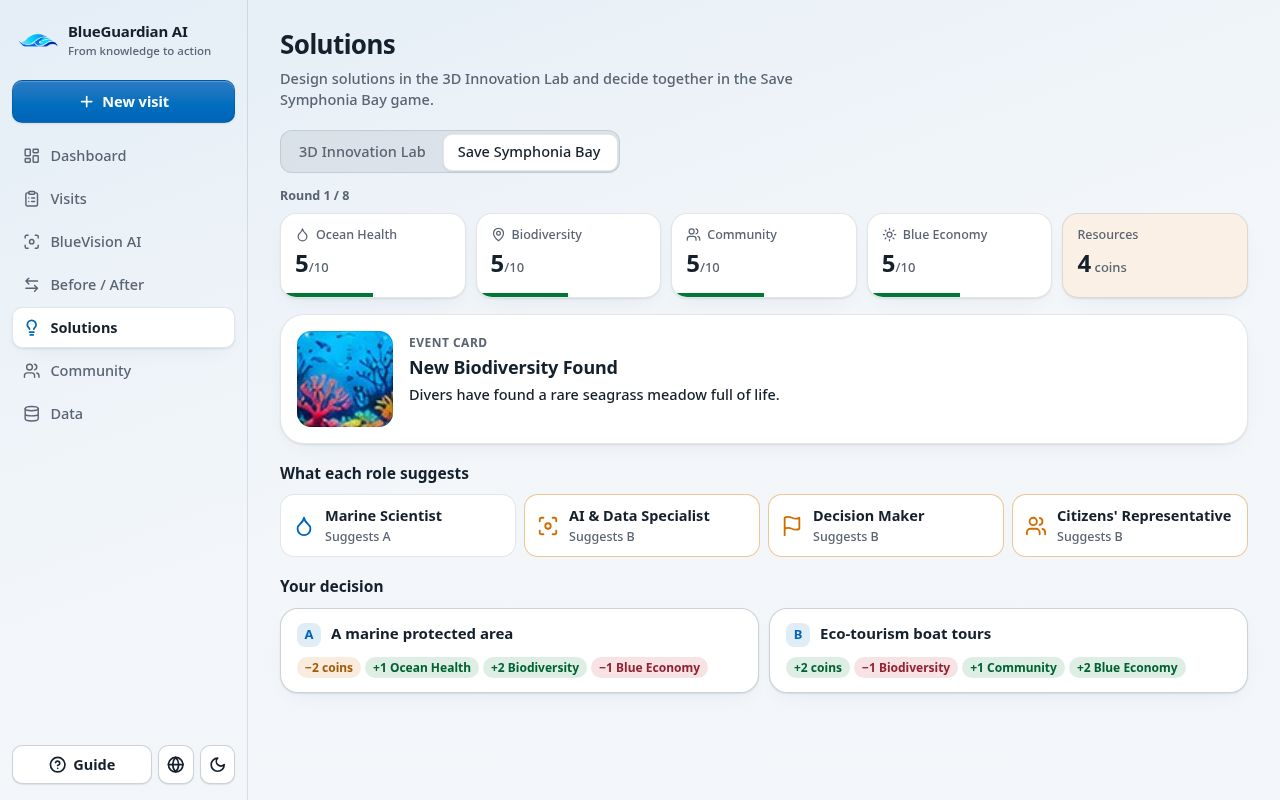
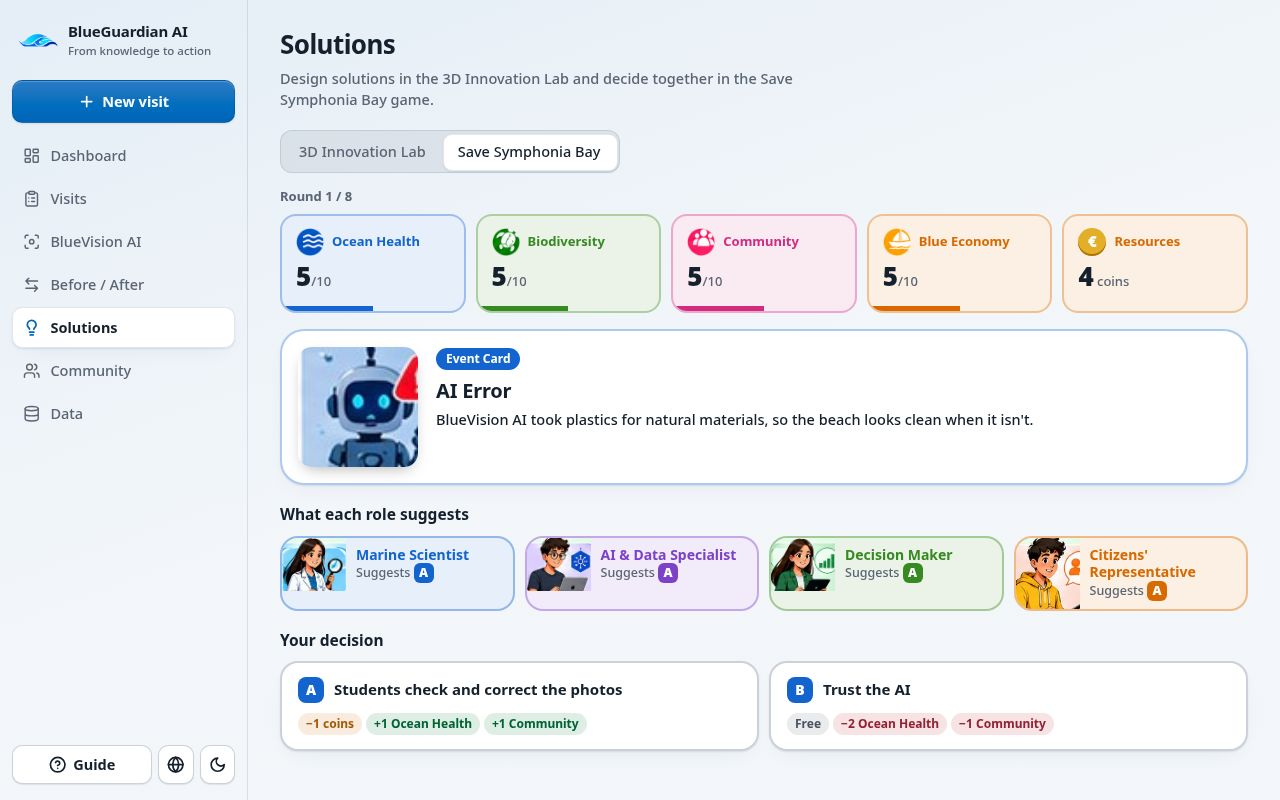
Restyle Solutions tab after the presentation slides
Colour-coded prototypes and design cycle with the slide icons, lab hero and kid
illustration; game start with banner, board, role portraits, indicator icons and
the 'who decides' / 'we don't always agree' callouts; portraits and a
disagreement note in each round.

Changed region(s): [[0.2188, 0.2188, 1.0, 0.9375]]

diff --git a/src/ideas.js b/src/ideas.js
@@ -7,17 +7,25 @@ const icon = name => `<svg class="i" aria-hidden="true"><use href="#i-${name}"/>
 
 // ---------- 3D Innovation Lab ----------
 
-const CYCLE = [['Σχεδιάζουμε', 'Design'], ['Κατασκευάζουμε', 'Build'], ['Δοκιμάζουμε', 'Test'], ['Μετράμε', 'Measure'], ['Βελτιώνουμε', 'Improve']];
+// Colours follow the presentation slides: each step, prototype, role and indicator keeps its slide colour.
+const CYCLE = [
+  { id: 'design', name: ['Σχεδιάζουμε', 'Design'], c: 'blue' },
+  { id: 'build', name: ['Κατασκευάζουμε', 'Build'], c: 'green' },
+  { id: 'test', name: ['Δοκιμάζουμε', 'Test'], c: 'orange' },
+  { id: 'measure', name: ['Μετράμε', 'Measure'], c: 'red' },
+  { id: 'improve', name: ['Βελτιώνουμε', 'Improve'], c: 'purple' },
+];
+const both = pair => lang === 'el' ? `<b>${pair[1]}</b><span>${pair[0]}</span>` : `<b>${pair[1]}</b>`; // slide style: English name, Greek under it
 const PROTOTYPES = [
-  { id: 'river-gate', name: ['Έξυπνο Φράγμα Ποταμού', 'Smart River Gate'],
+  { id: 'river-gate', c: 'blue', name: ['Έξυπνο Φράγμα Ποταμού', 'Smart River Gate'],
     does: ['Συγκρατεί τα απορρίμματα πριν φτάσουν στη θάλασσα.', 'Holds back litter before it reaches the sea.'],
     make: ['Στο Tinkercad: ένα πλαίσιο από κύβους και μια σχάρα με κάθετες ράβδους. Το νερό περνά, τα πλαστικά μένουν πίσω.', 'In Tinkercad: a frame of boxes and a grille of upright bars. Water flows through, plastics stay behind.'],
     test: ['Δοκιμή: σε ένα κανάλι με νερό, μετρήστε πόσα από 20 κομματάκια συγκρατεί.', 'Test: in a channel of water, count how many of 20 small pieces it holds back.'] },
-  { id: 'waste-collector', name: ['Πλωτός Συλλέκτης Απορριμμάτων', 'Floating Waste Collector'],
+  { id: 'waste-collector', c: 'green', name: ['Πλωτός Συλλέκτης Απορριμμάτων', 'Floating Waste Collector'],
     does: ['Συλλέγει απορρίμματα από την επιφάνεια της θάλασσας.', 'Collects litter from the surface of the sea.'],
     make: ['Στο Tinkercad: δύο κύλινδροι για πλωτήρες και ανάμεσά τους ένα καλάθι με τρύπες.', 'In Tinkercad: two cylinders as floats, with a basket full of holes between them.'],
     test: ['Δοκιμή: σε μια λεκάνη με νερό, μετρήστε πόσα κομματάκια μαζεύει σε ένα λεπτό.', 'Test: in a basin of water, count how many pieces it collects in one minute.'] },
-  { id: 'coastal-station', name: ['Έξυπνος Παράκτιος Σταθμός', 'Smart Coastal Station'],
+  { id: 'coastal-station', c: 'orange', name: ['Έξυπνος Παράκτιος Σταθμός', 'Smart Coastal Station'],
     does: ['Κάνει περιβαλλοντικές μετρήσεις στην ακτή.', 'Takes environmental measurements on the shore.'],
     make: ['Στο Tinkercad: ένα αδιάβροχο κουτί για micro:bit ή Arduino, με στήριγμα για ηλιακό πάνελ και αισθητήρες.', 'In Tinkercad: a waterproof box for a micro:bit or Arduino, with a mount for a solar panel and sensors.'],
     test: ['Δοκιμή: συγκρίνετε τις μετρήσεις του με ένα θερμόμετρο και καταγράψτε τες στην εφαρμογή.', 'Test: compare its readings with a thermometer and record them in the app.'] },
@@ -31,26 +39,37 @@ const saveLab = () => { try { localStorage.lab = JSON.stringify(lab); } catch {}
 export function renderLab() {
   const box = $('#lab-view');
   box.innerHTML = `
-    <div class="card lab-intro">
-      <p>${L(['Δεν θέλουμε το BlueGuardian AI απλώς να δείχνει ότι υπάρχει πρόβλημα. Θέλουμε τα δεδομένα να μας οδηγούν σε λύσεις. Στο 3D Innovation Lab σχεδιάζουμε πρωτότυπες κατασκευές με το Tinkercad και τις φτιάχνουμε σε 3D εκτυπωτή.',
-        'We don\'t want BlueGuardian AI to only show that there is a problem. We want the data to lead us to solutions. In the 3D Innovation Lab we design prototypes in Tinkercad and make them on a 3D printer.'])}</p>
-      <a class="btn primary" href="https://www.tinkercad.com/" target="_blank" rel="noopener">${L(['Άνοιγμα Tinkercad', 'Open Tinkercad'])}${icon('arrow')}</a>
+    <div class="card lab-hero">
+      <img src="img/lab-team.jpg" alt="">
+      <div>
+        <h2>3D Innovation Lab${L(['<small>Εργαστήριο Τρισδιάστατης Καινοτομίας</small>', ''])}</h2>
+        <p>${L(['Δεν θέλουμε το BlueGuardian AI απλώς να μας δείχνει ότι υπάρχει ένα πρόβλημα. Θέλουμε τα δεδομένα να μας οδηγούν και σε πιθανές λύσεις. Γι’ αυτό στο <b>3D Innovation Lab</b> σχεδιάζουμε <b>prototypes</b>, δηλαδή πρωτότυπες κατασκευές.',
+          'We don\'t want BlueGuardian AI to only show us that there is a problem. We want the data to lead us to possible solutions too. That is why in the <b>3D Innovation Lab</b> we design <b>prototypes</b>.'])}</p>
+        <p class="hint">${L(['Χρησιμοποιούμε εργαλεία όπως το Tinkercad και 3D εκτυπωτές για να σχεδιάσουμε και να κατασκευάσουμε τις ιδέες μας.', 'We use tools like Tinkercad and 3D printers to design and build our ideas.'])}</p>
+        <a class="btn primary" href="https://www.tinkercad.com/" target="_blank" rel="noopener">${L(['Άνοιγμα Tinkercad', 'Open Tinkercad'])}${icon('arrow')}</a>
+      </div>
     </div>
-    <ol class="cycle">${CYCLE.map(c => `<li>${L(c)}</li>`).join('')}</ol>
-    <p class="hint cycle-note">${L(['Και αν η πρώτη ιδέα δεν λειτουργήσει; Τη βελτιώνουμε και ξαναδοκιμάζουμε.', 'And if the first idea doesn\'t work? We improve it and test again.'])}</p>
     <div class="protos">${PROTOTYPES.map(p => {
       const s = lab[p.id] ?? { done: 0, version: 1 };
-      return `<article class="card proto">
+      return `<article class="card proto" style="--c:var(--c-${p.c})">
+        <header>${both(p.name)}${s.version > 1 ? `<small>v${s.version}</small>` : ''}</header>
         <img src="img/lab-${p.id}.jpg" alt="" loading="lazy">
-        <h2>${L(p.name)}${s.version > 1 ? `<small>v${s.version}</small>` : ''}</h2>
-        <p>${L(p.does)}</p>
+        <p class="does">${L(p.does)}</p>
         <p class="hint">${L(p.make)}</p>
         <p class="hint">${L(p.test)}</p>
         <div class="progress" role="group" aria-label="${L(['Πρόοδος', 'Progress'])}">${CYCLE.map((c, i) =>
-          `<button class="${i < s.done ? 'done' : i === s.done ? 'next' : ''}" data-proto="${p.id}" data-step="${i}" aria-pressed="${i < s.done}">${L(c)}</button>`).join('')}</div>
+          `<button class="${i < s.done ? 'done' : i === s.done ? 'next' : ''}" style="--c:var(--c-${c.c})" data-proto="${p.id}" data-step="${i}" aria-pressed="${i < s.done}" title="${L(c.name)}" aria-label="${L(c.name)}"><img src="img/cy-${c.id}.png" alt=""></button>`).join('')}</div>
         ${s.done === CYCLE.length ? `<button class="btn" data-again="${p.id}">${L(['Νέα έκδοση, νέος κύκλος', 'New version, new cycle'])}</button>` : ''}
       </article>`;
-    }).join('')}</div>`;
+    }).join('')}</div>
+    <div class="card cycle-card">
+      <h3 class="pill">${L(['Ακολουθούμε έναν κύκλο:', 'We follow a cycle:'])}</h3>
+      <ol class="cycle">${CYCLE.map(c => `<li style="--c:var(--c-${c.c})"><img src="img/cy-${c.id}.png" alt="">${both(c.name)}</li>`).join('')}</ol>
+      <div class="cycle-foot">
+        <p class="loop">${icon('refresh')}<span>${L(['Και αν η πρώτη μας ιδέα δεν λειτουργήσει; <b>Τη βελτιώνουμε και ξαναδοκιμάζουμε.</b>', 'And if our first idea doesn\'t work? <b>We improve it and test again.</b>'])}</span></p>
+        <figure class="kid"><img src="img/lab-kid.jpg" alt=""><figcaption>${L(['Νέες ιδέες για πιο καθαρές θάλασσες!', 'New ideas for cleaner seas!'])}</figcaption></figure>
+      </div>
+    </div>`;
   // Clicking a step marks everything up to it done; clicking the last done step undoes it.
   box.querySelectorAll('[data-step]').forEach(b => b.onclick = () => {
     const s = lab[b.dataset.proto] ??= { done: 0, version: 1 };
@@ -71,20 +90,20 @@ export function renderLab() {
 // ---------- Save Symphonia Bay ----------
 
 const METERS = [
-  ['ocean', ['Υγεία Θάλασσας', 'Ocean Health'], 'droplet'],
-  ['bio', ['Βιοποικιλότητα', 'Biodiversity'], 'pin'],
-  ['community', ['Κοινότητα', 'Community'], 'users'],
-  ['economy', ['Γαλάζια Οικονομία', 'Blue Economy'], 'sun'],
+  ['ocean', ['Υγεία Θάλασσας', 'Ocean Health'], 'blue'],
+  ['bio', ['Βιοποικιλότητα', 'Biodiversity'], 'green'],
+  ['community', ['Κοινότητα', 'Community'], 'pink'],
+  ['economy', ['Γαλάζια Οικονομία', 'Blue Economy'], 'orange'],
 ];
 // Each role argues for the option that scores best by its own priorities, so the team doesn't always agree.
 const ROLES = [
-  { name: ['Θαλάσσιος Επιστήμονας', 'Marine Scientist'], icon: 'droplet', why: ['Προστατεύει τη θάλασσα και τη ζωή της.', 'Protects the sea and its life.'],
+  { name: ['Θαλάσσιος Επιστήμονας', 'Marine Scientist'], n: 1, c: 'blue', why: ['Προστατεύει τη θάλασσα και τη ζωή της.', 'Protects the sea and its life.'],
     score: (fx, cost) => 2 * (fx.ocean ?? 0) + 2 * (fx.bio ?? 0) - cost * .2 },
-  { name: ['Ειδικός AI και Δεδομένων', 'AI & Data Specialist'], icon: 'scan', why: ['Κοιτάζει το συνολικό αποτέλεσμα στα δεδομένα.', 'Looks at the overall result in the data.'],
+  { name: ['Ειδικός AI και Δεδομένων', 'AI & Data Specialist'], n: 2, c: 'purple', why: ['Κοιτάζει το συνολικό αποτέλεσμα στα δεδομένα.', 'Looks at the overall result in the data.'],
     score: (fx, cost) => sum(fx) - cost * .3 },
-  { name: ['Υπεύθυνος Λήψης Αποφάσεων', 'Decision Maker'], icon: 'flag', why: ['Προσέχει τον προϋπολογισμό και τον πιο αδύναμο δείκτη.', 'Watches the budget and the weakest indicator.'],
+  { name: ['Υπεύθυνος Λήψης Αποφάσεων', 'Decision Maker'], n: 3, c: 'green', why: ['Προσέχει τον προϋπολογισμό και τον πιο αδύναμο δείκτη.', 'Watches the budget and the weakest indicator.'],
     score: (fx, cost, m) => 3 * (fx[weakest(m)] ?? 0) + sum(fx) - cost * .8 },
-  { name: ['Εκπρόσωπος των Πολιτών', 'Citizens\' Representative'], icon: 'users', why: ['Μιλά για τους κατοίκους και τις δουλειές τους.', 'Speaks for the residents and their jobs.'],
+  { name: ['Εκπρόσωπος των Πολιτών', 'Citizens\' Representative'], n: 4, c: 'orange', why: ['Μιλά για τους κατοίκους και τις δουλειές τους.', 'Speaks for the residents and their jobs.'],
     score: (fx, cost) => 2 * (fx.community ?? 0) + 2 * (fx.economy ?? 0) - cost * .3 },
 ];
 const letter = i => L([['Α', 'Β'][i], ['A', 'B'][i]]);
@@ -170,27 +189,43 @@ function choose(i) {
   renderGame();
 }
 
-const meters = () => `<div class="meters">${METERS.map(([k, name, ic]) =>
-  `<div class="meter${game.m[k] <= 2 ? ' low' : ''}"><span>${icon(ic)}${L(name)}</span><b>${game.m[k]}<small>/10</small></b><i style="--w:${game.m[k] * 10}%"></i></div>`).join('')}
-  <div class="meter coins"><span>${L(['Πόροι', 'Resources'])}</span><b>${game.coins}<small> ${L(['νομ.', 'coins'])}</small></b></div></div>`;
+const meters = () => `<div class="meters">${METERS.map(([k, name, c]) =>
+  `<div class="meter${game.m[k] <= 2 ? ' low' : ''}" style="--c:var(--c-${c})"><span><img src="img/ind-${k}.png" alt="">${L(name)}</span><b>${game.m[k]}<small>/10</small></b><i style="--w:${game.m[k] * 10}%"></i></div>`).join('')}
+  <div class="meter coins"><span><b class="euro">€</b>${L(['Πόροι', 'Resources'])}</span><b>${game.coins}<small> ${L(['νομ.', 'coins'])}</small></b></div></div>`;
+
+// The closing message of the slide, with the students around the board.
+const agree = () => `<div class="callout agree" style="--c:var(--c-pink)"><span class="badge">!</span>
+  <div><b>${L(['Και δεν συμφωνούμε πάντα!', 'And we don\'t always agree!'])}</b>
+  <p>${L(['Έτσι καταλαβαίνουμε ότι <b>τα δεδομένα</b> μάς βοηθούν να αποφασίσουμε, αλλά <b>οι άνθρωποι</b> είναι αυτοί που τελικά παίρνουν τις αποφάσεις.', 'That is how we learn that <b>data</b> helps us decide, but in the end it is <b>people</b> who make the decisions.'])}</p></div>
+  <img src="img/game-talk.jpg" alt=""></div>`;
 
 export function renderGame() {
   const box = $('#game-view');
   if (!game) {
     box.innerHTML = `
-      <div class="card game-intro">
-        <h2>Save Symphonia Bay${L([' · Σώστε τον Κόλπο της Symphonia', ''])}</h2>
-        <p>${L(['Ένα παιχνίδι στρατηγικής για καθαρότερες θάλασσες και πιο υγιείς κοινωνίες. Ακόμη κι αν έχουμε όλα τα δεδομένα, ποιος αποφασίζει τι πρέπει να κάνουμε;',
-          'A strategy game for cleaner seas and healthier communities. Even when we have all the data, who decides what we should do?'])}</p>
-        <ul class="rules">
-          <li>${L(['Παίζεται σε ομάδα, γύρω από μία οθόνη. Κάθε παίκτης παίρνει έναν ρόλο.', 'Play as a team around one screen. Each player takes a role.'])}</li>
-          <li>${L(['8 γύροι. Σε κάθε γύρο τραβάτε μια κάρτα γεγονότος και διαλέγετε μία από δύο αποφάσεις.', '8 rounds. Each round you draw an event card and pick one of two decisions.'])}</li>
-          <li>${L([`Οι πόροι είναι λίγοι: ξεκινάτε με ${START_COINS} νομίσματα και παίρνετε ${INCOME} σε κάθε γύρο.`, `Resources are scarce: you start with ${START_COINS} coins and get ${INCOME} each round.`])}</li>
-          <li>${L(['Αν κάποιος δείκτης φτάσει στο 0, ο κόλπος χάνεται. Για να σωθεί, όλοι οι δείκτες πρέπει να τελειώσουν στο 5 ή πάνω.', 'If any indicator reaches 0, the bay is lost. To save it, every indicator must end at 5 or higher.'])}</li>
-        </ul>
-        <div class="roles">${ROLES.map(r => `<div class="role">${icon(r.icon)}<b>${L(r.name)}</b><small>${L(r.why)}</small></div>`).join('')}</div>
-        <div class="row"><button class="btn primary" id="game-start">${L(['Έναρξη παιχνιδιού', 'Start the game'])}${icon('arrow')}</button></div>
-      </div>`;
+      <div class="card game-hero">
+        <img class="banner-art" src="img/game-banner.jpg" alt="Save Symphonia Bay">
+        <p class="tagline">${L(['Ένα παιχνίδι στρατηγικής για καθαρότερες θάλασσες και πιο υγιείς κοινωνίες', 'A strategy game for cleaner seas and healthier communities'])}</p>
+      </div>
+      <p class="callout" style="--c:var(--c-blue)"><span class="badge">?</span><span>${L(['Όμως υπάρχει και ένα ακόμη ερώτημα. Ακόμη κι αν έχουμε όλα τα δεδομένα, <b>ποιος αποφασίζει τι πρέπει να κάνουμε;</b>', 'But there is one more question. Even when we have all the data, <b>who decides what we should do?</b>'])}</span></p>
+      <div class="game-how">
+        <img src="img/game-board.jpg" alt="${L(['Το επιτραπέζιο Save Symphonia Bay', 'The Save Symphonia Bay board game'])}">
+        <div class="card">
+          <h3>${L(['Πώς παίζεται', 'How to play'])}</h3>
+          <ul class="rules">
+            <li>${L(['Παίζεται σε ομάδα, γύρω από μία οθόνη. Κάθε παίκτης παίρνει έναν ρόλο.', 'Play as a team around one screen. Each player takes a role.'])}</li>
+            <li>${L(['8 γύροι. Σε κάθε γύρο τραβάτε μια κάρτα γεγονότος και διαλέγετε μία από δύο αποφάσεις.', '8 rounds. Each round you draw an event card and pick one of two decisions.'])}</li>
+            <li>${L([`Οι πόροι είναι λίγοι: ξεκινάτε με ${START_COINS} νομίσματα και παίρνετε ${INCOME} σε κάθε γύρο.`, `Resources are scarce: you start with ${START_COINS} coins and get ${INCOME} each round.`])}</li>
+            <li>${L(['Αν κάποιος δείκτης φτάσει στο 0, ο κόλπος χάνεται. Για να σωθεί, όλοι οι δείκτες πρέπει να τελειώσουν στο 5 ή πάνω.', 'If any indicator reaches 0, the bay is lost. To save it, every indicator must end at 5 or higher.'])}</li>
+          </ul>
+        </div>
+      </div>
+      <h3 class="sub">${L(['Σε αυτό αναλαμβάνουμε διαφορετικούς ρόλους:', 'In it we take on different roles:'])}</h3>
+      <div class="roles">${ROLES.map(r => `<div class="role" style="--c:var(--c-${r.c})"><img src="img/role-${r.n}.jpg" alt=""><b>${L(r.name)}</b><small>${L(r.why)}</small></div>`).join('')}</div>
+      <h3 class="sub">${L(['Έχουμε περιορισμένους πόρους και πρέπει να πάρουμε αποφάσεις που επηρεάζουν:', 'We have limited resources and must make decisions that affect:'])}</h3>
+      <div class="inds">${METERS.map(([k, name, c]) => `<span style="--c:var(--c-${c})"><img src="img/ind-${k}.png" alt="">${L(name)}</span>`).join('')}</div>
+      ${agree()}
+      <div class="row"><button class="btn primary big" id="game-start">${L(['Έναρξη παιχνιδιού', 'Start the game'])}${icon('arrow')}</button></div>`;
     $('#game-start').onclick = startGame;
     return;
   }
@@ -210,12 +245,13 @@ export function renderGame() {
     ${meters()}
     <div class="card event">
       <img src="img/ev-${c.id}.jpg" alt="">
-      <div><small>${L(['Κάρτα γεγονότος', 'Event card'])}</small><h2>${L(c.title)}</h2><p>${L(c.text)}</p>
+      <div><small class="pill">Event Card${L([' · Κάρτα γεγονότος', ''])}</small><h2>${L(c.title)}</h2><p>${L(c.text)}</p>
         ${Object.keys(c.hit).length ? `<div class="fxs">${METERS.filter(([k]) => c.hit[k]).map(([k, n]) => `<span class="fx down">−${-c.hit[k]} ${L(n)}</span>`).join('')}</div>` : ''}
         ${next ? `<p class="peek">${icon('globe')}${L(['Τα δεδομένα Copernicus δείχνουν και την επόμενη κάρτα:', 'Copernicus data also reveals the next card:'])} <b>${L(next.title)}</b></p>` : ''}</div>
     </div>
     <h3 class="sub">${L(['Τι προτείνει κάθε ρόλος', 'What each role suggests'])}</h3>
-    <div class="roles">${advice.map(a => `<div class="role pick-${a.i}">${icon(a.r.icon)}<b>${L(a.r.name)}</b><small>${L(['Προτείνει', 'Suggests'])} ${letter(a.i)}</small></div>`).join('')}</div>
+    <div class="roles compact">${advice.map(({ r, i }) => `<div class="role" style="--c:var(--c-${r.c})"><img src="img/role-${r.n}.jpg" alt=""><b>${L(r.name)}</b><small>${L(['Προτείνει', 'Suggests'])} <em class="opt">${letter(i)}</em></small></div>`).join('')}</div>
+    ${new Set(advice.map(a => a.i)).size > 1 ? `<p class="callout small" style="--c:var(--c-pink)"><span class="badge">!</span><span>${L(['<b>Και δεν συμφωνούμε πάντα!</b> Συζητήστε και αποφασίστε μαζί.', '<b>And we don\'t always agree!</b> Talk it over and decide together.'])}</span></p>` : ''}
     <h3 class="sub">${L(['Η απόφασή σας', 'Your decision'])}</h3>
     <div class="choices">${c.options.map((o, i) => `
       <button class="choice${done && game.picked === i ? ' picked' : ''}" data-choice="${i}" ${done || o.cost > game.coins ? 'disabled' : ''}>
@@ -245,8 +281,8 @@ function renderEnd(box) {
     <div class="card">
       <h2>${L(['Οι αποφάσεις σας', 'Your decisions'])}</h2>
       <ol class="log">${game.log.map(e => `<li><b>${L(e.card.title)}</b> · ${L(e.card.options[e.i].text)}</li>`).join('')}</ol>
-      <p class="hint">${L(['Τα δεδομένα μάς βοηθούν να αποφασίσουμε, αλλά οι άνθρωποι είναι αυτοί που τελικά παίρνουν τις αποφάσεις.', 'Data helps us decide, but in the end it is people who make the decisions.'])}</p>
-      <div class="row"><button class="btn primary" id="game-again">${L(['Νέο παιχνίδι', 'Play again'])}</button></div>
-    </div>`;
+    </div>
+    ${agree()}
+    <div class="row"><button class="btn primary big" id="game-again">${L(['Νέο παιχνίδι', 'Play again'])}</button></div>`;
   $('#game-again').onclick = startGame;
 }

diff --git a/src/style.css b/src/style.css
@@ -431,79 +431,142 @@ dialog h2 { padding: var(--p) var(--p) 0; margin-bottom: 4px; font-size: 18px; }
 /* Taps act at once: no double-tap-zoom wait on touch screens. */
 button, a, .btn { touch-action: manipulation; }
 
-/* ---- solutions: 3D lab + Save Symphonia Bay ---- */
-.lab-intro { display: flex; align-items: center; gap: 12px 20px; flex-wrap: wrap; margin-bottom: 16px; }
-.lab-intro p { flex: 1 1 360px; max-width: 75ch; text-wrap: pretty; }
-.cycle { display: flex; flex-wrap: wrap; gap: 6px; list-style: none; margin: 0; padding: 0; counter-reset: c; }
-.cycle li { counter-increment: c; display: flex; align-items: center; gap: 8px; padding: 6px 12px 6px 6px; border-radius: 99px; font-weight: 600; background: var(--surface); border: 1px solid var(--line); }
-.cycle li::before { content: counter(c); display: grid; place-items: center; width: 22px; height: 22px; border-radius: 50%; font-size: 12px; color: var(--accent); background: color-mix(in oklch, var(--accent) 12%, transparent); }
-.cycle li:not(:last-child)::after { content: "→"; margin-left: 4px; color: var(--muted); font-weight: 450; }
-.cycle-note { margin: 8px 0 16px; }
-.protos { display: grid; grid-template-columns: repeat(auto-fit, minmax(min(100%, 280px), 1fr)); gap: 16px; }
-.proto { display: flex; flex-direction: column; gap: 8px; --p: 8px; --r: 22px; }
-.proto img { width: 100%; aspect-ratio: 16 / 10; object-fit: cover; display: block; border-radius: var(--inner); outline: 1px solid var(--img-edge); outline-offset: -1px; }
-.proto > :not(img) { margin-inline: 8px; }
-.proto h2 { margin: 6px 8px 0; }
-.proto h2 small, .round { font-size: 12.5px; font-weight: 600; color: var(--muted); }
-.proto .hint { font-size: 13.5px; }
-.proto > .btn { align-self: flex-start; margin-bottom: 8px; }
-.progress { display: grid; grid-template-columns: repeat(5, 1fr); gap: 3px; margin-block: 6px 8px; }
-.progress button { padding: 7px 2px; border-radius: 8px; font-size: 11.5px; font-weight: 600; color: var(--muted); background: color-mix(in oklch, var(--text) 6%, transparent); border: 1px solid transparent; transition: background .2s var(--ease), color .2s; overflow: hidden; text-overflow: ellipsis; }
-.progress button:hover { color: var(--text); }
-.progress .done { color: var(--on-accent); background: var(--good); }
-.progress .next { color: var(--accent); border-color: color-mix(in oklch, var(--accent) 45%, transparent); }
+/* ---- solutions: 3D lab + Save Symphonia Bay, coloured like the presentation slides ---- */
+:root {
+  --c-blue:   light-dark(oklch(0.52 0.18 258), oklch(0.72 0.14 250));
+  --c-green:  light-dark(oklch(0.56 0.16 140), oklch(0.75 0.15 140));
+  --c-orange: light-dark(oklch(0.64 0.17 55),  oklch(0.78 0.14 60));
+  --c-red:    light-dark(oklch(0.58 0.21 20),  oklch(0.72 0.17 20));
+  --c-purple: light-dark(oklch(0.52 0.2 300),  oklch(0.72 0.15 300));
+  --c-pink:   light-dark(oklch(0.58 0.21 355), oklch(0.74 0.16 355));
+}
+.callout, .pill, .proto header, .role, .inds span, .meter { --tint: color-mix(in srgb, var(--c, var(--accent)) 10%, var(--surface)); }
+.pill { display: inline-block; padding: 4px 14px; border-radius: 99px; color: #fff; background: var(--c, var(--c-blue)); font-weight: 700; font-size: 14px; letter-spacing: 0; text-transform: none; }
 
-.game-intro { display: grid; gap: 12px; max-width: 900px; }
-.game-intro h2 { margin: 0; font-size: 18px; }
-.game-intro > p { max-width: 75ch; }
-.roles { display: grid; grid-template-columns: repeat(auto-fit, minmax(min(100%, 190px), 1fr)); gap: 8px; }
-.role { display: grid; grid-template-columns: auto 1fr; gap: 2px 10px; align-items: center; padding: 10px 12px; border-radius: 14px; background: var(--surface); border: 1px solid var(--line); }
-.role .i { grid-row: span 2; color: var(--accent); width: 22px; height: 22px; }
-.role small { color: var(--muted); font-size: 12.5px; }
-.role.pick-1 { border-color: color-mix(in oklch, var(--warm) 40%, transparent); }
-.role.pick-1 .i { color: var(--warm); }
-.round { margin-bottom: 8px; }
+.lab-hero { display: grid; grid-template-columns: minmax(0, 5fr) minmax(0, 6fr); gap: 20px; align-items: center; margin-bottom: 16px; --p: 8px; --r: 22px; }
+.lab-hero > img { width: 100%; border-radius: var(--inner); aspect-ratio: 440 / 230; object-fit: cover; }
+.lab-hero > div { display: grid; gap: 10px; justify-items: start; padding-right: 12px; }
+.lab-hero h2 { display: grid; margin: 0; font-size: 26px; font-weight: 800; color: var(--c-blue); line-height: 1.15; }
+.lab-hero h2 small { display: block; font-size: 15px; font-weight: 600; color: var(--muted); }
+.lab-hero b { color: var(--c-blue); }
+.protos { display: grid; grid-template-columns: repeat(auto-fit, minmax(min(100%, 280px), 1fr)); gap: 16px; }
+.proto { display: flex; flex-direction: column; gap: 8px; --p: 0px; --r: 22px; overflow: hidden; border: 2px solid color-mix(in srgb, var(--c) 45%, transparent); }
+.proto header { display: grid; justify-items: center; padding: 10px 12px; color: #fff; background: var(--c); text-align: center; line-height: 1.25; }
+.proto header b { font-size: 16px; }
+.proto header span { font-size: 13.5px; opacity: .92; }
+.proto header small { font-size: 12px; font-weight: 700; padding: 1px 8px; margin-top: 4px; border-radius: 99px; background: oklch(1 0 0 / .25); }
+.proto > img { width: 100%; aspect-ratio: 16 / 10; object-fit: cover; display: block; }
+.proto > :not(img, header) { margin-inline: 14px; }
+.proto .does { font-weight: 600; text-align: center; padding: 8px 10px; border-radius: 12px; background: var(--tint); margin-top: 4px; }
+.proto .hint { font-size: 13.5px; }
+.proto > .btn { align-self: flex-start; margin-bottom: 14px; }
+.progress { display: grid; grid-template-columns: repeat(5, 1fr); gap: 4px; margin-block: 6px 14px; }
+.progress button { display: grid; place-items: center; padding: 6px 2px; border-radius: 12px; border: 2px solid transparent; transition: background .2s var(--ease); }
+.progress img { width: 38px; height: 38px; filter: grayscale(1) opacity(.45); transition: filter .2s; }
+.progress button:hover img, .progress .next img { filter: grayscale(.4) opacity(.8); }
+.progress .done { color: var(--c); background: color-mix(in srgb, var(--c) 12%, transparent); }
+.progress .done img { filter: none; }
+.progress .next { border-color: color-mix(in srgb, var(--c) 50%, transparent); }
+
+.cycle-card { margin-top: 16px; display: grid; gap: 14px; justify-items: center; }
+.cycle { display: flex; flex-wrap: wrap; justify-content: center; gap: 8px 4px; list-style: none; margin: 0; padding: 0; }
+.cycle li { display: grid; justify-items: center; align-content: start; gap: 2px; width: 118px; text-align: center; position: relative; line-height: 1.2; }
+.cycle li img { width: 72px; height: 72px; margin-bottom: 4px; filter: drop-shadow(0 4px 8px color-mix(in srgb, var(--c) 35%, transparent)); }
+.cycle li b { color: var(--c); font-size: 16px; }
+.cycle li span { color: var(--c); font-size: 12.5px; }
+.cycle li:not(:last-child)::after { content: ""; position: absolute; top: 30px; right: -10px; border: 7px solid transparent; border-left: 10px solid var(--c-blue); }
+.cycle-foot { display: flex; align-items: center; justify-content: center; gap: 16px; flex-wrap: wrap; }
+.loop { display: flex; align-items: center; gap: 12px; max-width: 420px; padding: 12px 16px; border-radius: 16px; border: 2px solid color-mix(in srgb, var(--c-blue) 40%, transparent); background: color-mix(in srgb, var(--c-blue) 7%, var(--surface)); text-wrap: pretty; }
+.loop .i { flex: none; width: 26px; height: 26px; color: var(--c-blue); }
+.kid { margin: 0; position: relative; width: 190px; }
+.kid img { width: 100%; border-radius: 16px; display: block; }
+.kid figcaption { position: absolute; top: -6px; left: -60px; max-width: 150px; padding: 6px 10px; border-radius: 14px; font-size: 13px; font-weight: 700; color: var(--c-blue); background: var(--surface); border: 2px solid var(--c-blue); box-shadow: var(--elev); }
+
+.game-hero { padding: 10px 10px 14px; text-align: center; margin-bottom: 14px; background: #fff; }
+.banner-art { width: 100%; max-width: 900px; display: block; margin-inline: auto; border-radius: 14px; }
+.tagline { display: inline-block; margin-top: 6px; padding: 6px 18px; border-radius: 99px; font-weight: 700; color: oklch(0.32 0.1 258); background: oklch(0.93 0.04 240); text-wrap: balance; }
+.callout { display: flex; align-items: center; gap: 14px; padding: 14px 16px; margin: 0 0 16px; border-radius: 18px; border: 2px solid color-mix(in srgb, var(--c) 40%, transparent); background: var(--tint); }
+.callout > span:last-child, .callout > div { flex: 1; text-wrap: pretty; }
+.callout b { color: var(--c); }
+.badge { flex: none; display: grid; place-items: center; width: 40px; height: 40px; border-radius: 50%; font-size: 24px; font-weight: 900; color: #fff; background: var(--c); }
+.callout.small { padding: 8px 12px; margin: 10px 0 0; font-size: 14px; }
+.callout.small .badge { width: 28px; height: 28px; font-size: 17px; }
+.agree { margin-top: 18px; }
+.agree > div > b { font-size: 19px; }
+.agree p { margin-top: 4px; }
+.agree img { width: 220px; flex: none; border-radius: 14px; }
+.game-how { display: grid; grid-template-columns: minmax(0, 7fr) minmax(0, 6fr); gap: 16px; align-items: center; }
+.game-how > img { width: 100%; border-radius: 18px; }
+.game-how h3 { margin: 0 0 6px; }
+.roles { display: grid; grid-template-columns: repeat(auto-fit, minmax(min(100%, 180px), 1fr)); gap: 10px; }
+.role { display: grid; justify-items: center; align-content: start; gap: 4px; padding: 0 0 12px; border-radius: 18px; overflow: hidden; text-align: center; background: var(--tint); border: 2px solid color-mix(in srgb, var(--c) 40%, transparent); }
+.role img { width: 100%; aspect-ratio: 150 / 117; object-fit: cover; margin-bottom: 4px; }
+.role b { color: var(--c); padding-inline: 8px; line-height: 1.25; }
+.role small { color: var(--muted); font-size: 12.5px; padding-inline: 10px; }
+.roles.compact .role { grid-template-columns: 64px 1fr; justify-items: start; align-items: center; text-align: left; padding: 0; gap: 0 10px; }
+.roles.compact .role img { grid-row: span 2; height: 100%; aspect-ratio: auto; margin: 0; }
+.roles.compact .role b { padding: 8px 8px 0 0; align-self: end; font-size: 14px; }
+.roles.compact .role small { padding: 0 8px 8px 0; align-self: start; }
+.opt { font-style: normal; font-weight: 800; display: inline-grid; place-items: center; width: 20px; height: 20px; border-radius: 6px; color: #fff; background: var(--c); }
+.inds { display: flex; flex-wrap: wrap; gap: 10px; }
+.inds span { display: flex; align-items: center; gap: 10px; padding: 6px 16px 6px 6px; border-radius: 99px; font-weight: 700; color: var(--c); background: var(--tint); }
+.inds img, .meter span img { width: 36px; height: 36px; }
+.btn.big { font-size: 16px; padding: 12px 22px; }
+.sub { margin: 18px 0 10px; }
+.round { margin-bottom: 8px; font-size: 13px; font-weight: 700; color: var(--muted); }
 .meters { display: grid; grid-template-columns: repeat(auto-fit, minmax(150px, 1fr)); gap: 10px; margin-bottom: 16px; }
-.meter { position: relative; display: grid; gap: 2px; padding: 12px 14px 16px; border-radius: 16px; background: var(--surface); border: 1px solid var(--line); box-shadow: var(--elev); overflow: hidden; }
-.meter span { display: flex; align-items: center; gap: 6px; color: var(--muted); font-size: 12.5px; }
-.meter b { font-size: 24px; font-weight: 680; font-variant-numeric: tabular-nums; }
+.meter { position: relative; display: grid; gap: 2px; padding: 12px 14px 16px; border-radius: 16px; background: var(--tint); border: 2px solid color-mix(in srgb, var(--c, var(--warm)) 35%, transparent); overflow: hidden; }
+.meter span { display: flex; align-items: center; gap: 8px; color: var(--c); font-weight: 700; font-size: 13px; }
+.meter span img { width: 28px; height: 28px; }
+.meter b { font-size: 26px; font-weight: 800; font-variant-numeric: tabular-nums; }
 .meter b small { font-size: 13px; font-weight: 500; color: var(--muted); }
-.meter i { position: absolute; left: 0; bottom: 0; height: 4px; width: var(--w); background: var(--good); transition: width .5s var(--ease-move), background .3s; }
+.meter i { position: absolute; left: 0; bottom: 0; height: 5px; width: var(--w); background: var(--c); transition: width .5s var(--ease-move), background .3s; }
 .meter.low i { background: var(--bad); }
 .meter.low b { color: var(--bad); }
-.meter.coins { background: color-mix(in srgb, var(--warm) 10%, var(--surface)); }
-.event { display: flex; gap: 16px; align-items: flex-start; margin-bottom: 18px; animation: pop-in .3s var(--ease); }
-.event img { width: 96px; height: 96px; flex: none; border-radius: 14px; object-fit: cover; outline: 1px solid var(--img-edge); outline-offset: -1px; }
-.event small { color: var(--muted); font-weight: 600; font-size: 12px; text-transform: uppercase; letter-spacing: .04em; }
-.event h2 { margin: 2px 0 4px; font-size: 18px; }
+.meter.coins { --c: var(--c-orange); }
+.euro { display: grid; place-items: center; width: 28px; height: 28px; border-radius: 50%; font-size: 15px !important; color: #fff; background: oklch(0.78 0.15 85); box-shadow: inset 0 -2px 0 oklch(0.6 0.13 70); }
+.event { display: flex; gap: 18px; align-items: flex-start; margin-bottom: 4px; animation: pop-in .3s var(--ease); border: 2px solid color-mix(in srgb, var(--c-blue) 35%, transparent); }
+.event img { width: 120px; height: 120px; flex: none; border-radius: 14px; object-fit: cover; box-shadow: 0 6px 16px -6px oklch(0 0 0 / .35); }
+.event .pill { font-size: 12px; padding: 2px 10px; }
+.event h2 { margin: 6px 0 4px; font-size: 20px; }
 .event .fxs { margin-top: 8px; }
 .peek { display: flex; align-items: center; gap: 6px; flex-wrap: wrap; margin-top: 10px; padding: 8px 10px; border-radius: 10px; font-size: 13.5px; background: color-mix(in oklch, var(--accent) 9%, transparent); }
-.sub { margin: 0 0 10px; }
-.roles + .sub { margin-top: 18px; }
 .choices { display: grid; grid-template-columns: repeat(auto-fit, minmax(min(100%, 300px), 1fr)); gap: 10px; }
-.choice { display: flex; flex-direction: column; align-items: flex-start; gap: 10px; padding: 14px 16px; border-radius: 18px; text-align: left; background: var(--surface); border: 1px solid var(--line-strong); box-shadow: var(--elev); transition: border-color .15s, translate .2s var(--ease-move), opacity .2s; }
-.choice:not(:disabled):hover { border-color: var(--accent); translate: 0 -1px; }
+.choice { display: flex; flex-direction: column; align-items: flex-start; gap: 10px; padding: 14px 16px; border-radius: 18px; text-align: left; background: var(--surface); border: 2px solid var(--line-strong); box-shadow: var(--elev); transition: border-color .15s, translate .2s var(--ease-move), opacity .2s; }
+.choice:not(:disabled):hover { border-color: var(--c-blue); translate: 0 -2px; }
 .choice:disabled { cursor: default; opacity: .55; }
-.choice.picked { opacity: 1; border-color: var(--accent); background: color-mix(in srgb, var(--accent) 8%, var(--surface)); }
+.choice.picked { opacity: 1; border-color: var(--c-blue); background: color-mix(in srgb, var(--c-blue) 8%, var(--surface)); }
 .choice b { display: flex; gap: 10px; align-items: baseline; font-size: 15px; }
-.choice em { font-style: normal; display: grid; place-items: center; width: 24px; height: 24px; flex: none; border-radius: 8px; font-size: 13px; color: var(--accent); background: color-mix(in oklch, var(--accent) 12%, transparent); }
+.choice em { font-style: normal; display: grid; place-items: center; width: 26px; height: 26px; flex: none; border-radius: 8px; font-size: 14px; font-weight: 800; color: #fff; background: var(--c-blue); }
 .choice small { color: var(--bad); font-size: 12.5px; }
 .fxs { display: flex; flex-wrap: wrap; gap: 4px; }
-.fx { --c: var(--muted); font-size: 12px; font-weight: 600; padding: 2px 8px; border-radius: 99px; color: color-mix(in srgb, var(--c) 75%, var(--text)); background: color-mix(in oklch, var(--c) 13%, transparent); }
+.fx { --c: var(--muted); font-size: 12px; font-weight: 700; padding: 2px 8px; border-radius: 99px; color: color-mix(in srgb, var(--c) 75%, var(--text)); background: color-mix(in oklch, var(--c) 13%, transparent); }
 .fx.up { --c: var(--good); }
 .fx.down { --c: var(--bad); }
 .fx.coin { --c: var(--warm); }
-.end { margin-bottom: 16px; --c: var(--warm); background: color-mix(in srgb, var(--c) 10%, var(--surface)); border-color: color-mix(in oklch, var(--c) 30%, transparent); }
+.end { margin-bottom: 16px; --c: var(--warm); background: color-mix(in srgb, var(--c) 10%, var(--surface)); border: 2px solid color-mix(in oklch, var(--c) 35%, transparent); }
 .end.good { --c: var(--good); }
 .end.bad { --c: var(--bad); }
-.end h2 { font-size: 20px; margin-bottom: 4px; color: color-mix(in srgb, var(--c) 65%, var(--text)); }
+.end h2 { font-size: 22px; font-weight: 800; margin-bottom: 4px; color: color-mix(in srgb, var(--c) 65%, var(--text)); }
 .score { margin-top: 8px; color: var(--muted); }
 .score b { font-size: 22px; color: var(--text); font-variant-numeric: tabular-nums; }
-.log { margin: 0 0 12px; padding-left: 22px; display: grid; gap: 4px; }
-.page.entering :is(.proto, .role, .meter) { animation: row-in .3s var(--ease) both; animation-delay: calc(min(sibling-index() - 1, 12) * 30ms); }
+.log { margin: 0; padding-left: 22px; display: grid; gap: 4px; }
+.page.entering :is(.proto, .role, .meter, .cycle li) { animation: row-in .3s var(--ease) both; animation-delay: calc(min(sibling-index() - 1, 12) * 30ms); }
+@media (max-width: 800px) {
+  .lab-hero, .game-how { grid-template-columns: 1fr; }
+  .lab-hero > div { padding: 0 8px 10px; }
+}
 @media (max-width: 560px) {
   /* Seven tabs: the bottom bar scrolls sideways rather than squeezing them under finger size. */
   .side { overflow-x: auto; scrollbar-width: none; }
   .tab { flex: 1 0 44px; }
-  .event img { width: 64px; height: 64px; }
+  .event img { width: 76px; height: 76px; }
+  .cycle li { width: 96px; }
+  .cycle li img { width: 58px; height: 58px; }
+  .cycle li:not(:last-child)::after { display: none; }
+  .agree { flex-wrap: wrap; }
+  .agree img { width: 100%; }
+  .kid figcaption { left: -40px; }
+  .roles { grid-template-columns: 1fr 1fr; }
+  .roles.compact { grid-template-columns: 1fr; }
 }

diff --git a/src/index.html b/src/index.html
@@ -41,6 +41,7 @@
     <symbol id="i-users" viewBox="0 0 24 24"><path d="M16 21v-2a4 4 0 0 0-4-4H6a4 4 0 0 0-4 4v2"/><circle cx="9" cy="7" r="4"/><path d="M22 21v-2a4 4 0 0 0-3-3.87M16 3.13a4 4 0 0 1 0 7.75"/></symbol>
     <symbol id="i-share" viewBox="0 0 24 24"><path d="M4 12v8a2 2 0 0 0 2 2h12a2 2 0 0 0 2-2v-8M16 6l-4-4-4 4M12 2v13"/></symbol>
     <symbol id="i-flag" viewBox="0 0 24 24"><path d="M4 15s1-1 4-1 5 2 8 2 4-1 4-1V3s-1 1-4 1-5-2-8-2-4 1-4 1zM4 22v-7"/></symbol>
+    <symbol id="i-refresh" viewBox="0 0 24 24"><path d="M3 12a9 9 0 0 1 9-9 9.75 9.75 0 0 1 6.74 2.74L21 8M21 3v5h-5M21 12a9 9 0 0 1-9 9 9.75 9.75 0 0 1-6.74-2.74L3 16M8 16H3v5"/></symbol>
     <symbol id="i-bulb" viewBox="0 0 24 24"><path d="M15 14c.2-1 .7-1.7 1.5-2.5 1-.9 1.5-2.2 1.5-3.5A6 6 0 0 0 6 8c0 1 .2 2.2 1.5 3.5.7.7 1.3 1.5 1.5 2.5M9 18h6M10 22h4"/></symbol>
     <symbol id="i-upload" viewBox="0 0 24 24"><path d="M21 15v4a2 2 0 0 1-2 2H5a2 2 0 0 1-2-2v-4M17 8l-5-5-5 5M12 3v12"/></symbol>
   </svg>
